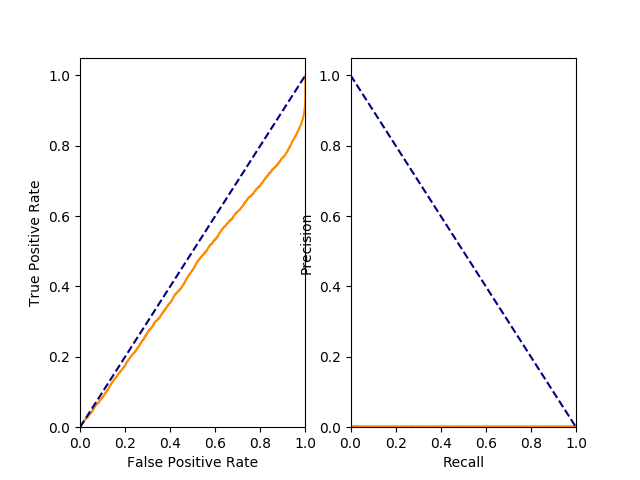
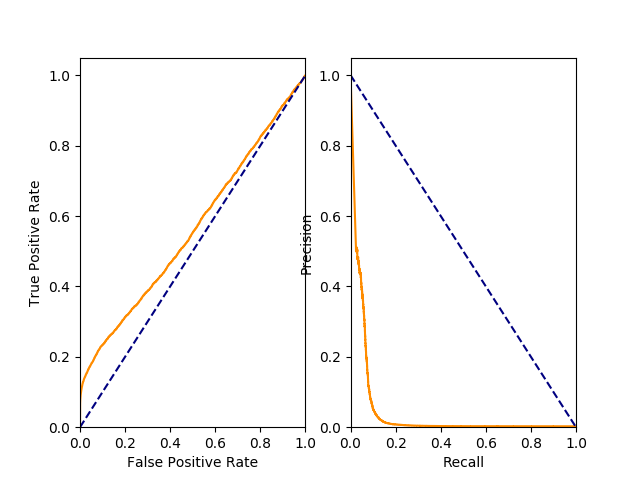
update genenet AUROC/AUPR

diff --git a/eval/roc_genenet.py b/eval/roc_genenet.py
@@ -1,57 +1,83 @@
-import numpy, os, errno, sys
+import numpy, os, errno, sys, argparse, re
 from sklearn.metrics import roc_curve, roc_auc_score, average_precision_score, precision_recall_curve
 import pandas
 import matplotlib
 matplotlib.use('agg')
 import matplotlib.pyplot as plt
 
-try:
-    os.mkdir("genenet")
-except OSError as e:
-    if e.errno == errno.EEXIST:
-        pass
+PRINT_ORDER_SXG =["2000X250", "2000X500", "2000X750", "2000X1000", "2000X1250", "2000X1500", "2000X1750", "2000X2000", "1750X2000", "1500X2000", "1250X2000", "1000X2000", "750X2000", "500X2000", "250X2000"]
 
-true_complete = numpy.genfromtxt('../data/yeast/gnw2000_truenet', delimiter=' ', skip_header=1, usecols=range(1, 2001))
+def main(input_base_dir = "..", output_base_dir = "."):
+    input_base_dir = input_base_dir + "/"
+    output_base_dir = output_base_dir + "/"
+    try:
+        os.mkdir(output_base_dir+"genenet")
+    except OSError as e:
+        if e.errno == errno.EEXIST:
+            pass
 
-directory = '../runs/genenet/output'
-files = [f for f in os.listdir(directory) if os.path.isfile(os.path.join(directory, f))]
-auroc = []
-average_precision = []
-for _filename in files:
-    filename = os.path.join(directory, 'stats', _filename+'_stats')
-    pred = pandas.read_csv(filename, sep=' ', index_col=0)
-    pred['node1'] = pred['node1'] - 1
-    pred['node2'] = pred['node2'] - 1
-    true = true_complete[pred['node1'].tolist(), pred['node2'].tolist()]
-    pred = pred['pval'].values
-    fpr, tpr, thresholds = roc_curve(true, pred)
-    precision, recall, _ = precision_recall_curve(true, pred)
-    auroc.append(roc_auc_score(true, pred))
-    average_precision.append(average_precision_score(true, pred))
-    
-    fig = plt.figure()
+    true_complete = numpy.genfromtxt(input_base_dir+'data/yeast/gnw2000_truenet',
+                                     delimiter=' ',
+                                     skip_header=1, usecols=range(1, 2001))
 
-    plt.subplot(1, 2, 1)
-    plt.plot(fpr, tpr, color='darkorange')
-    plt.plot([0,1], [0,1], color='navy', linestyle='--')
-    plt.xlim([0.0, 1.0])
-    plt.ylim([0.0, 1.05])
-    plt.xlabel('False Positive Rate')
-    plt.ylabel('True Positive Rate')
+    directory = input_base_dir + 'runs/genenet/output'
+    files = [f for f in os.listdir(directory) if os.path.isfile(os.path.join(directory, f))]
+    auroc = {}
+    average_precision = {}
+    for _filename in files:
+        filename = os.path.join(directory, 'stats', _filename+'_stats')
+        pred = pandas.read_csv(filename, sep=' ', index_col=0)
+        pred['node1'] = pred['node1'] - 1
+        pred['node2'] = pred['node2'] - 1
+        true = true_complete[pred['node1'].tolist(), pred['node2'].tolist()]
+        pred = pred['pval'].values
+        pred = 1 - pred
+        #print(max(pred), min(pred))
+        bname = os.path.basename(filename)
+        mx = re.search('([0-9]+)\.([0-9]+)-', bname)
+        ngenes = int(mx.group(1))
+        nsamples = int(mx.group(2))
+        #print(ngenes, nsamples)
+        sxgn = str(nsamples) + "X" + str(ngenes)
 
-    plt.subplot(1, 2, 2)
-    plt.plot(recall, precision, color='darkorange')
-    plt.plot([0, 1], [1, 0], color='navy', linestyle='--')
-    plt.xlim([0.0, 1.0])
-    plt.ylim([0.0, 1.05])
-    plt.xlabel('Recall')
-    plt.ylabel('Precision')
+        fpr, tpr, thresholds = roc_curve(true, pred)
+        precision, recall, _ = precision_recall_curve(true, pred)
+        auroc[sxgn] = roc_auc_score(true, pred)
+        average_precision[sxgn] = average_precision_score(true, pred)
 
-    fig.savefig('genenet/'+_filename.split('-')[0]+'_roc.png')
+        fig = plt.figure()
 
-print("AUROC")
-for i in range(len(auroc)):
-    print(files[i] + " : " + str(auroc[i]))
-print("Average_precision")
-for i in range(len(average_precision)):
-    print(files[i] + " : " + str(average_precision[i]))
+        plt.subplot(1, 2, 1)
+        plt.plot(fpr, tpr, color='darkorange')
+        plt.plot([0,1], [0,1], color='navy', linestyle='--')
+        plt.xlim([0.0, 1.0])
+        plt.ylim([0.0, 1.05])
+        plt.xlabel('False Positive Rate')
+        plt.ylabel('True Positive Rate')
+
+        plt.subplot(1, 2, 2)
+        plt.plot(recall, precision, color='darkorange')
+        plt.plot([0, 1], [1, 0], color='navy', linestyle='--')
+        plt.xlim([0.0, 1.0])
+        plt.ylim([0.0, 1.05])
+        plt.xlabel('Recall')
+        plt.ylabel('Precision')
+
+        fig.savefig(output_base_dir+'genenet/'+_filename.split('-')[0]+'_roc.png')
+    print("\t".join(["SXG"] + [x for x in PRINT_ORDER_SXG]))
+    print("\t".join(["AUROC"] + [str(auroc[x]) if x in auroc else "NA" for x in PRINT_ORDER_SXG]))
+    print("\t".join(["AUPR"] + [str(average_precision[x]) if x in average_precision else "NA" for x in PRINT_ORDER_SXG]))
+
+
+if __name__ == "__main__":
+    PROG_DESC = """
+    Computes the ROC for genenet networks.
+    """
+    PARSER = argparse.ArgumentParser(description=PROG_DESC)
+    PARSER.add_argument("-i", "--input_base_dir", type=str, default="..",
+                        help="""Base dir of fastggm runs dir""")
+    PARSER.add_argument("-o", "--output_base_dir", type=str, default=".",
+                        help="""Base dir of output dir""")
+
+    ARGS = PARSER.parse_args()
+    main(ARGS.input_base_dir, ARGS.output_base_dir)
